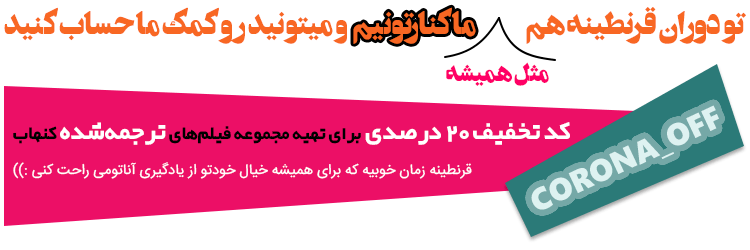
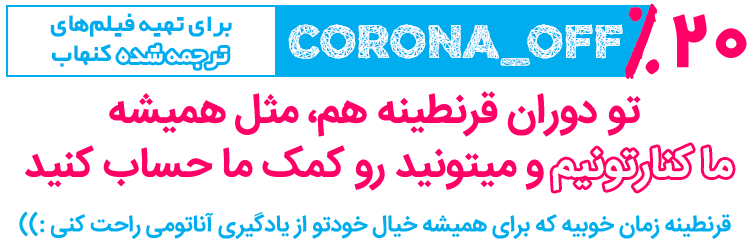
some improve

diff --git a/src/View/Pages/ClassItemResourcePage.js b/src/View/Pages/ClassItemResourcePage.js
@@ -95,43 +95,61 @@ class ClassItemResourcePage extends PureComponent
                 {
                     handout.length > 0 &&
                     <div className="class-a-resource-container">
+                        <div className="class-a-resource-container-title">جزوهها</div>
                         {
                             handout.map(item =>
                                 <div key={item._id} className="class-handout-item">
                                     <PdfSvg className="class-handout-item-svg"/>
-                                    <div className="class-handout-item-title">
-                                        {item.title}
-                                    </div>
-                                    <div className="class-handout-item-description">
-                                        {item.university} - {item.teacher}
-                                    </div>
-                                    <div className="class-handout-item-description">
-                                        {item.pages_count} صفحه
+                                    <div className="class-handout-item-title-cont">
+                                        <div className="class-handout-item-title">
+                                            {item.title}
+                                        </div>
+                                        <div className="class-handout-item-description">
+                                            {item.university}{item.teacher && ` - ${item.teacher}`}
+                                        </div>
+                                        <div className="class-handout-item-description">
+                                            {item.pages_count} صفحه
+                                        </div>
                                     </div>
                                 </div>,
                             )
                         }
+                        <div className="class-handout-item-hide"/>
+                        <div className="class-handout-item-hide"/>
+                        <div className="class-handout-item-hide"/>
+                        <div className="class-handout-item-hide"/>
+                        <div className="class-handout-item-hide"/>
+                        <div className="class-handout-item-hide"/>
                     </div>
                 }
                 {
                     question.length > 0 &&
                     <div className="class-a-resource-container">
+                        <div className="class-a-resource-container-title">نمونه سوالات</div>
                         {
                             question.map(item =>
                                 <div key={item._id} className="class-handout-item">
                                     <PdfSvg className="class-handout-item-svg"/>
-                                    <div className="class-handout-item-title">
-                                        {item.title}
-                                    </div>
-                                    <div className="class-handout-item-description">
-                                        {item.university} - {item.teacher}
-                                    </div>
-                                    <div className="class-handout-item-description">
-                                        {item.pages_count} صفحه
+                                    <div className="class-handout-item-title-cont">
+                                        <div className="class-handout-item-title">
+                                            {item.title}
+                                        </div>
+                                        <div className="class-handout-item-description">
+                                            {item.university}{item.teacher && ` - ${item.teacher}`}
+                                        </div>
+                                        <div className="class-handout-item-description">
+                                            {item.pages_count} صفحه
+                                        </div>
                                     </div>
                                 </div>,
                             )
                         }
+                        <div className="class-handout-item-hide"/>
+                        <div className="class-handout-item-hide"/>
+                        <div className="class-handout-item-hide"/>
+                        <div className="class-handout-item-hide"/>
+                        <div className="class-handout-item-hide"/>
+                        <div className="class-handout-item-hide"/>
                     </div>
                 }
                 {

diff --git a/src/View/Pages/HomePage.js b/src/View/Pages/HomePage.js
@@ -11,6 +11,9 @@ import MySlider from "../Components/MySlider"
 import axios from "axios"
 import Footer from "../Components/Footer"
 import {ClipLoader} from "react-spinners"
+import {Link} from "react-router-dom"
+import copyToClipboard from "../../Helpers/copyToClipboard"
+import {NotificationManager} from "react-notifications"
 
 class HomePage extends PureComponent
 {
@@ -78,6 +81,8 @@ class HomePage extends PureComponent
         process.env.NODE_ENV === "production" && api.post("view", {type: "video", content: freeVideos[e.target.id].title, content_id: e.target.id}).catch(err => console.log(err))
     }
 
+    sliderClick = () => copyToClipboard("corona_off", () => NotificationManager.success("کد تخفیف کپی شد"))
+
     render()
     {
         const {freeVideos, videoError} = this.state
@@ -87,17 +92,12 @@ class HomePage extends PureComponent
                     <h2 className="home-title">K<span>RED</span></h2>
                     <h3 className="home-desc">گام هایی جذاب در دنیای پزشکی</h3>
                 </div>
-                <div className="home-slider-cont">
+                <Link to="/videos" onClick={this.sliderClick} className="home-slider-cont">
                     <div className="home-slider">
-                        <img className="home-slider-img" src={Slider} alt=""/>
-                        <img className="home-slider-img-text" src={SliderText} alt=""/>
-                        {/*<div className="home-slider-text">*/}
-                        {/*    <div className="home-slider-text-big">تو دوران قرنطینه هم، مثل همیشه، ما کنارتونیم و میتونید رو کمک ما حساب کنید</div>*/}
-                        {/*    <div className="home-slider-text-big margin"><span>corona_off</span> این یه کد تخفیف <span>20 درصدیه</span> برای تهیه مجموعه فیلمهای <span>ترجمهشده</span> کنهاب</div>*/}
-                        {/*    <div>قرنطینه زمان خوبیه که برای همیشه خیال خودتو از یادگیری آناتومی راحت کنی :))</div>*/}
-                        {/*</div>*/}
+                        <img className="home-slider-img" src={Slider} alt="KRED CORONA OFF"/>
+                        <img className="home-slider-img-text" src={SliderText} alt="KRED CORONA OFF"/>
                     </div>
-                </div>
+                </Link>
                 <div className="home-videos">
                     <div className="home-videos-text">
                         <h3 className="home-videos-title">فیلمهای آموزشی</h3>

diff --git a/src/Styles/class-page.scss b/src/Styles/class-page.scss
@@ -680,33 +680,71 @@
   padding: $header-size 5% 0 5%;
   background-color: var(--light-color);
   min-height: calc(100vh - 81px);
-
 }
 
 .class-a-resource-container {
-  width: 100%;
+  width: calc(100% - 40px);
   margin-top: 25px;
   margin-bottom: 50px;
   background-color: var(--secondary-color);
   display: flex;
   flex-wrap: wrap;
-  justify-content: space-evenly;
+  justify-content: flex-start;
+  padding: 20px;
+}
+
+.class-a-resource-container-title {
+  min-width: 100%;
+  color: white;
+  padding: 10px 20px;
+  font-weight: bold;
+  font-size: $home-title-font-size;
+}
+
+.class-handout-item-hide {
+  padding: 0 10px;
+  margin: 0 20px;
+  width: 180px;
+  flex-grow: 1;
+  height: 0;
+  overflow: hidden;
 }
 
 .class-handout-item {
   background-color: var(--background-color);
-  height: 200px;
-  min-width: 200px;
-  max-width: 210px;
-  margin: 35px;
-  text-align: center;
+  width: 180px;
   flex-grow: 1;
+  padding: 10px;
+  margin: 20px;
+  text-align: center;
+
+  @media screen and (max-width: 480px) {
+    margin: 10px 0;
+    display: flex;
+    align-items: center;
+  }
 }
 
 .class-handout-item-svg {
   width: 70px;
   height: 70px;
-  margin: 30px 0 12px 0;
+  margin: 10px 0 10px 0;
+
+  @media screen and (max-width: 480px) {
+    order: 1;
+    width: 50px;
+    height: 50px;
+    margin: 0;
+  }
+}
+
+.class-handout-item-title-cont {
+  @media screen and (max-width: 480px) {
+    flex-grow: 1;
+    display: inline-block;
+    text-align: right;
+    padding-right: 10px;
+  }
 }
 
 .class-handout-item-title {
@@ -714,6 +752,8 @@
   font-weight: bold;
   margin-bottom: 5px;
 }
+
 .class-handout-item-description {
   font-size: $regular-font-size;
+  margin-top: 5px;
 }

diff --git a/src/Styles/home.scss b/src/Styles/home.scss
@@ -344,6 +344,12 @@
   border: 1px solid var(--primary-color);
   display: flex;
   justify-content: center;
+  transition: all linear 0.2s;
+
+  &:hover {
+    box-shadow: 0 3px 3px rgba(0, 0, 0, 0.2);
+  }
+
   @media screen and (max-width: 480px) {
     flex-wrap: wrap;
   }
@@ -367,31 +373,5 @@
     width: 100%;
     margin-left: 0;
     margin-bottom: 15px;
-  }
-}
-
-.home-slider-text {
-  font-size: $menu-title-font-size;
-  color: var(--secondary-color);
-  display: flex;
-  flex-direction: column;
-  justify-content: space-evenly;
-  text-align: center;
-
-  @media screen and (max-width: 480px) {
-    font-size: $title-font-size;
-  }
-}
-
-.home-slider-text-big {
-  font-size: $home-title-font-size;
-  font-weight: bold;
-
-  &.margin {
-    margin: 15px 0;
-  }
-
-  @media screen and (max-width: 480px) {
-    font-size: $home-regular-font-size;
   }
 }

diff --git a/src/Styles/index.scss b/src/Styles/index.scss
@@ -92,7 +92,7 @@ video::cue {
 }
 
 ::-webkit-scrollbar-thumb:hover {
-  background-color: var(--secondary-color);
+  background-color: var(--primary-color);
 }
 
 ::-moz-selection { /* Code for Firefox */
